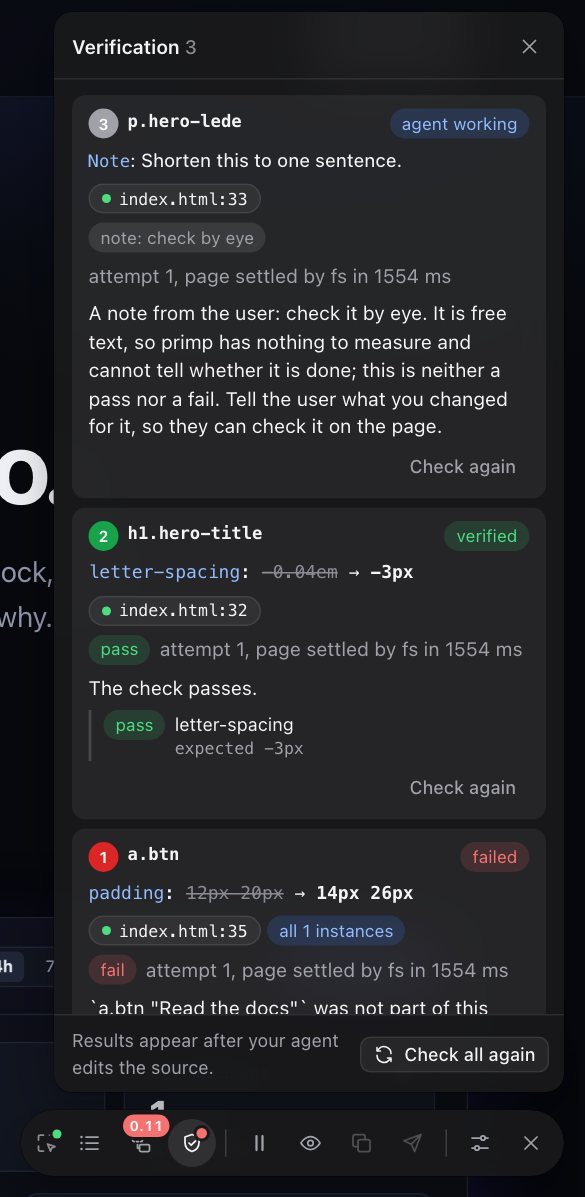
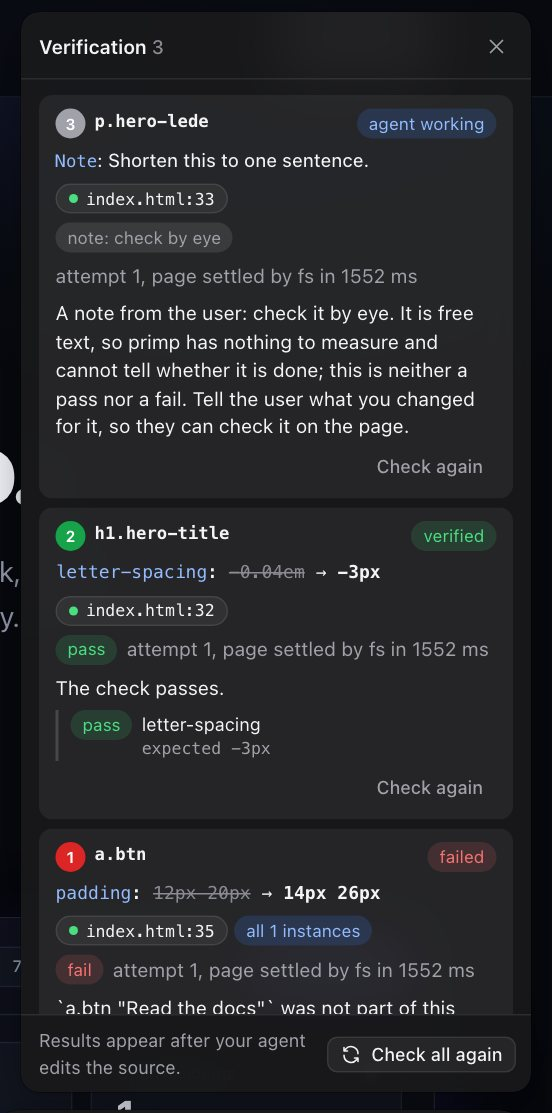
Site: the step crops are the dock's popover alone; a shorter replay notice; screenshots wait for lazy images

diff --git a/site/capture.ts b/site/capture.ts
@@ -14,7 +14,7 @@
  *   edit-{light,dark}       the inspector next to the selected button
  *   shifts-{light,dark}     the Layout shifts panel with the seeded shift shown on the page
  *   verify-{light,dark}     the Verification panel after the "agent" edited the source
- *   step-edit-*, step-verify-*   the dock alone (popover and toolbar), cropped from edit and verify
+ *   step-edit-*, step-verify-*   the dock's popover alone (inspector, Verification), cropped from edit and verify
  *   hover-light             a :hover edit previewed with the state held
  *   resize-light            a resize handle drag in progress
  *   facts.json              the strings the site quotes (summaries, hints, the shift, the change)
@@ -88,10 +88,10 @@ async function shoot(page: Page, name: string, clip?: Box): Promise<void> {
   console.log(`  ${name}.jpg  ${(statSync(path).size / 1024).toFixed(0)} kB`)
 }
 
-/** The dock's popover and toolbar together, with a margin. */
+/** The dock's popover (the toolbar when no popover is shown), with a margin. */
 async function dockClip(dock: Dock, margin = 14): Promise<Box> {
   const { bar, pop } = await dock('geometry')
-  const boxes = [bar, ...(pop === null ? [] : [pop])]
+  const boxes = [pop ?? bar]
   const left = Math.max(0, Math.min(...boxes.map((box) => box.x)) - margin)
   const top = Math.max(0, Math.min(...boxes.map((box) => box.y)) - margin)
   const right = Math.min(VIEWPORT.width, Math.max(...boxes.map((box) => box.x + box.width)) + margin)

diff --git a/site/components/live-dock.tsx b/site/components/live-dock.tsx
@@ -197,9 +197,10 @@ function ReplayNotice({ held, onClose }: { held: boolean; onClose: () => void })
           <p className="font-medium">This load had a layout shift, on purpose.</p>
           <p className="text-muted-foreground">
             {held
-              ? 'The hero screenshot was served without reserved space and held back, so the page jumped when it arrived. Open the dock’s Layout shifts panel: primp names the image, the cause and a source line. (Its note that a resource came from a cache is about this replay: a service worker hands the screenshot over. Through npx primp every response is uncached.)'
+              ? 'The hero screenshot came without reserved space and was held back, so the page jumped. Open Layout shifts: primp names the image, the cause and a source line.'
               : 'This browser did not let the site install the small service worker that holds the screenshot back, so it may arrive before the first paint and the shift may not happen.'}
           </p>
+          {held && <p className="text-xs text-muted-foreground/80">Its note that a resource came from a cache is this replay&apos;s service worker. Through npx primp every response is uncached.</p>}
           <div className="flex flex-wrap gap-2 pt-1">
             <Button size="sm" variant="accent" onClick={() => void openDock('shifts')}>
               Open Layout shifts

diff --git a/spikes/site-check.ts b/spikes/site-check.ts
@@ -114,14 +114,14 @@ async function factsOf(page: Page): Promise<PageFacts> {
   })
 }
 
-async function scrollThrough(page: Page): Promise<void> {
-  await page.evaluate(async () => {
+async function scrollThrough(page: Page, pauseMs = 50): Promise<void> {
+  await page.evaluate(async (pause) => {
     for (let y = 0; y < document.documentElement.scrollHeight; y += 400) {
       scrollTo(0, y)
-      await new Promise((resolve) => setTimeout(resolve, 50))
+      await new Promise((resolve) => setTimeout(resolve, pause))
     }
     scrollTo(0, 0)
-  })
+  }, pauseMs)
 }
 
 /** Text of every frame of the dock (toolbar and popover). */
@@ -456,7 +456,8 @@ try {
       const shot = await freshPage(browser, { viewport: { width: job.width, height: job.height }, theme: job.theme })
       await shot.page.goto(origin + job.path)
       await waitFor(() => shot.page.evaluate(() => (window as unknown as { __primp_test?: unknown }).__primp_test !== undefined), { what: 'the dock', timeoutMs: 15_000 })
-      if (job.full) await scrollThrough(shot.page)
+      // Slowly enough for every lazy image to arrive before the full-page screenshot.
+      if (job.full) await scrollThrough(shot.page, 250)
       await sleep(900)
       await job.then?.(shot.page)
       await shot.page.screenshot({ path: join(SHOTS, `${job.name}.png`), fullPage: job.full })

diff --git a/site/components/landing/loop.tsx b/site/components/landing/loop.tsx
@@ -132,7 +132,7 @@ export function Loop({ facts, change, promptHtml, editShots, verifyShots }: { fa
                           <Status s={result.status} />
                           <code className="truncate font-mono text-xs text-muted-foreground">{result.id}</code>
                         </div>
-                        <p className="mt-2 line-clamp-4 leading-relaxed text-foreground/85">
+                        <p className="mt-2 line-clamp-3 leading-relaxed text-foreground/85">
                           <CodeSpans text={result.hint} />
                         </p>
                       </li>
